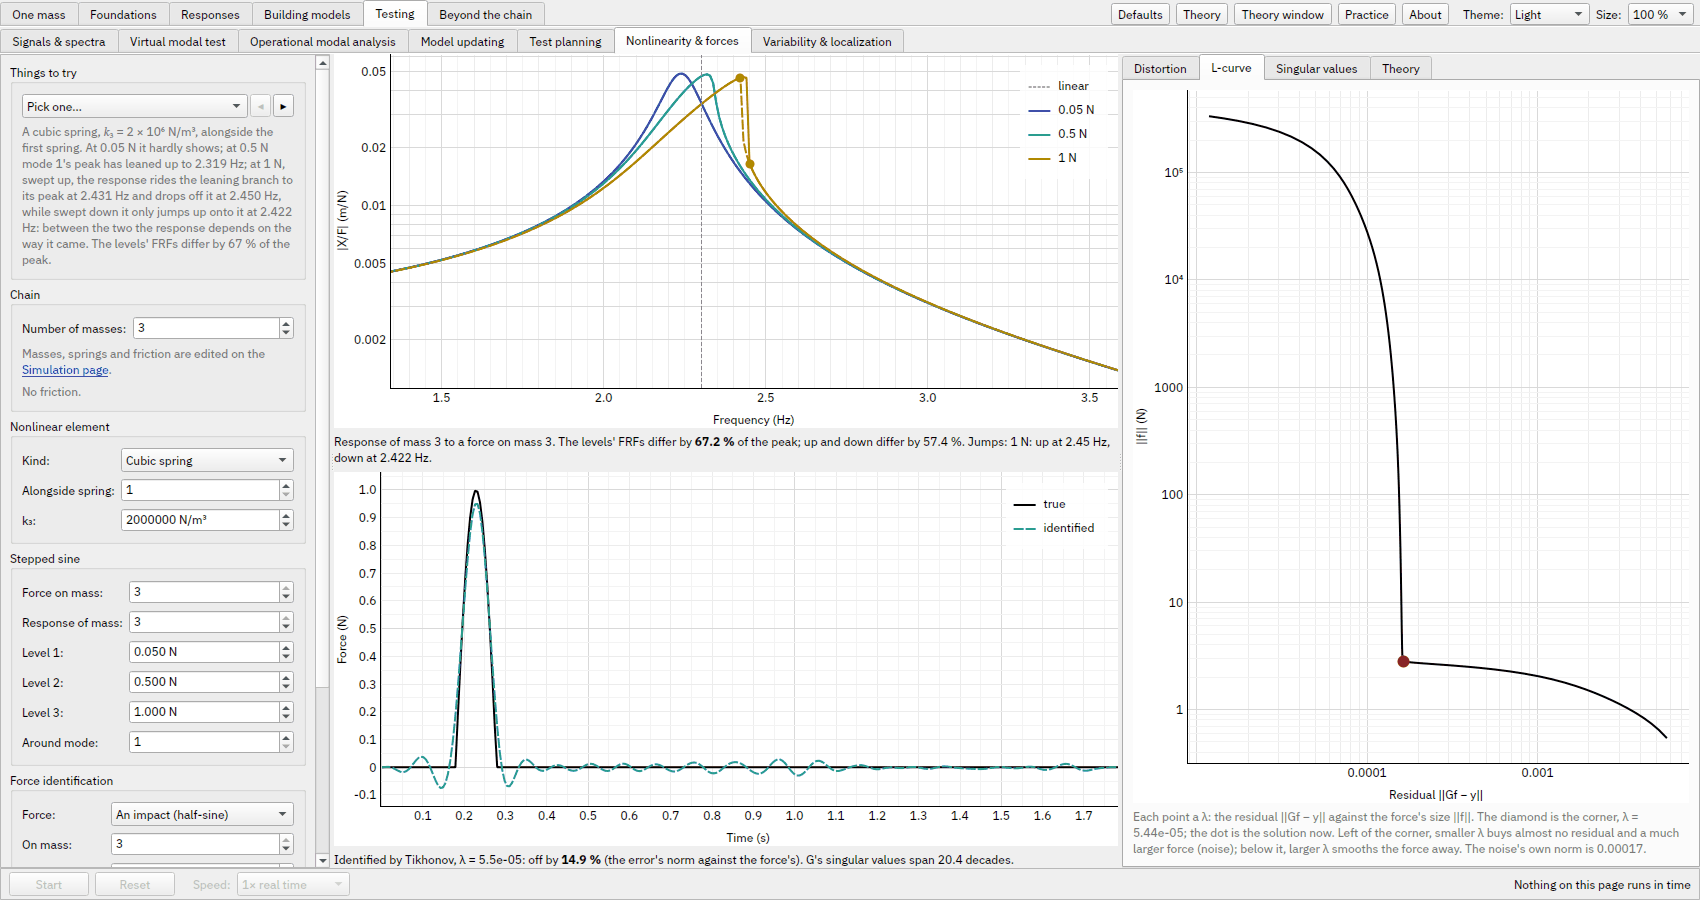
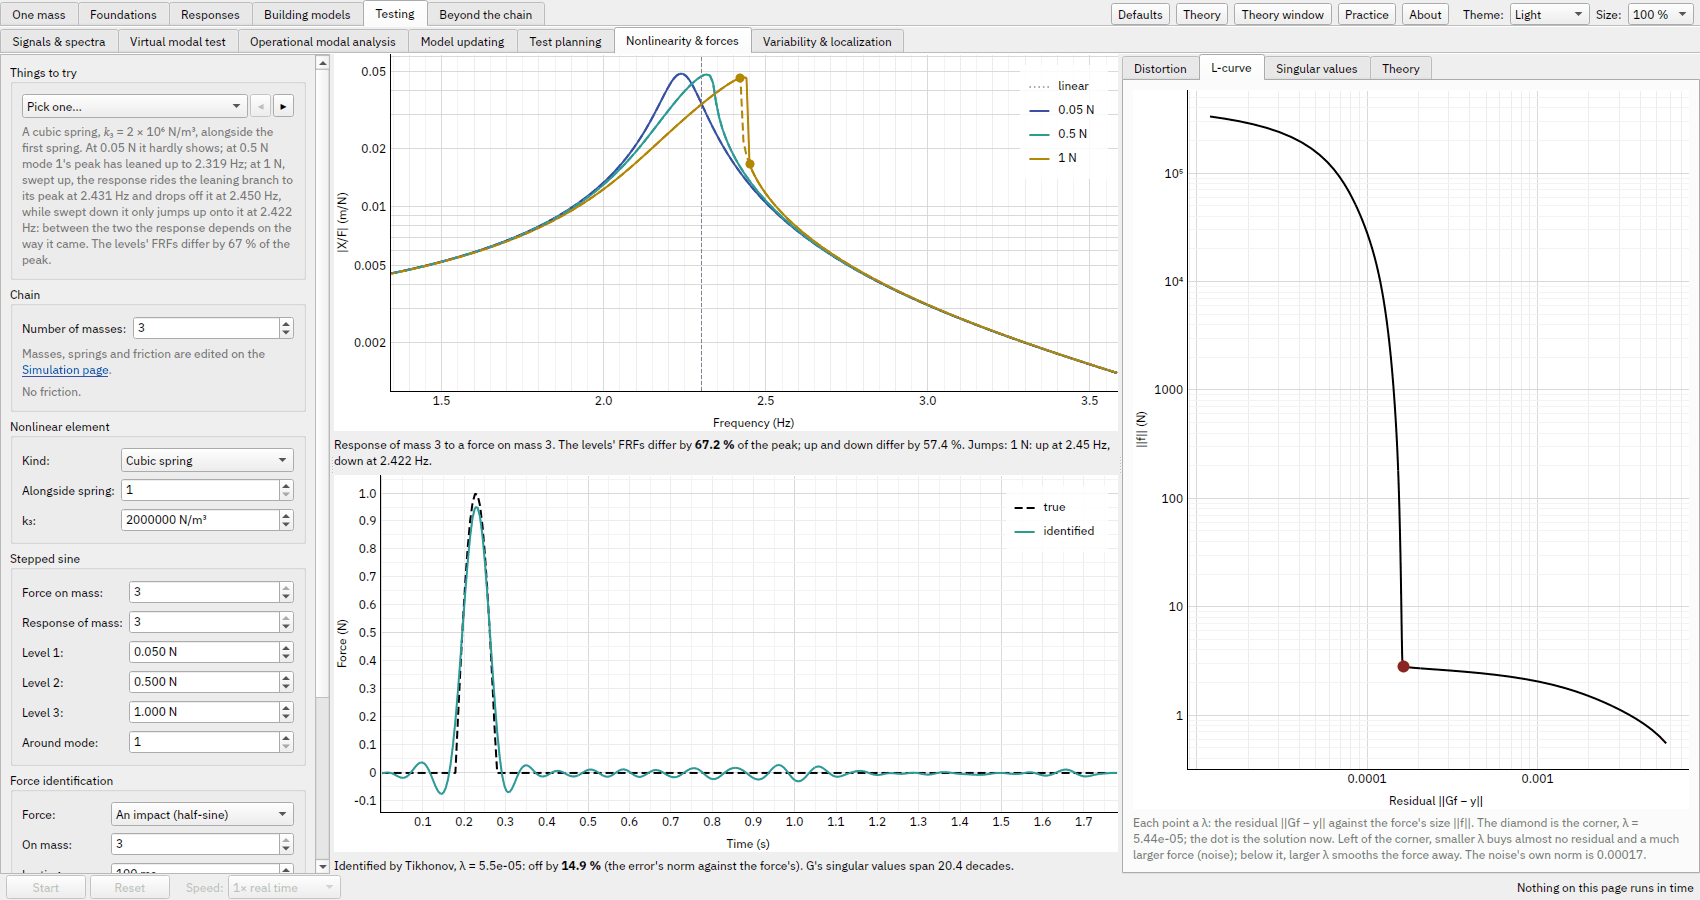
Nonlinearity: the identified force drawn solid, without antialiasing when blown up (#316 D2)
After a trial, Measured and Regularized by took 110-330 ms, much of it painting the identified force: a
noisy, blown-up estimate zigzagging far past the plot, dashed and antialiased (400 ms a paint at worst).
It's solid now (the true force dashed) and drawn without antialiasing while it runs past the plot.
Regularized by: ~110 -> 14 ms; Measured: up to 200 -> 35-116 ms, most of it force_id.set_up. The
Nonlinearity and Numerical integration screenshots redrawn.

diff --git a/src/vib_tutorial/gui/nonlinear_forces.py b/src/vib_tutorial/gui/nonlinear_forces.py
@@ -391,7 +391,7 @@ FRF_TIP = (
     "<p>The FRF |X/F| at each level: swept up (solid) and down (dashed). Dotted: the linear chain's. A linear "
     "chain's levels all lie on it; the dots mark where a sweep jumped.</p>"
 )
-FORCE_TIP = "<p>The true force (solid) and the one identified from the noisy measurement (dashed).</p>"
+FORCE_TIP = "<p>The true force (dashed) and the one identified from the noisy measurement (solid).</p>"
 
 NOTES_HTML = load_notes("nonlinear_forces", figures=nonlinear_figures.FIGURES, trials=trials_html(TRIALS))
 
@@ -843,8 +843,10 @@ class NonlinearForcesPage(QtWidgets.QWidget):
             self.down_items[k].setPen(pg.mkPen(c, width=2, style=dash))
             mark(self.jump_items[k], c, filled=True)
         self.dist_line.setPen(pg.mkPen(colors.grey, width=1, style=dash))
-        self.truth_item.setPen(pg.mkPen(colors.strong, width=2))
-        self.estimate_item.setPen(pg.mkPen(colors.fit, width=2, style=dash))
+        # The true force dashed and the identified one solid: the identified one zigzags with the noise, and a dashed
+        # zigzag is slow to stroke (20 ms a paint even without antialiasing; solid, 2 ms: see `_draw_force`)
+        self.truth_item.setPen(pg.mkPen(colors.strong, width=2, style=dash))
+        self.estimate_item.setPen(pg.mkPen(colors.fit, width=2))
         self.wave_item.setPen(pg.mkPen(colors.strong, width=2))
         self.sine_item.setPen(pg.mkPen(colors.grey, width=1.5, style=dash))
         self.harm_bars.setOpts(brush=pg.mkBrush(colors.mode[0]), pen=None)
@@ -921,9 +923,11 @@ class NonlinearForcesPage(QtWidgets.QWidget):
             self.estimate_item.setData([], [])
             self.force_readout.setText("No sensors: tick at least one mass.")
             return
-        self.estimate_item.setData(t, self.estimate)
         top = float(np.abs(self.truth).max())
         big = float(np.abs(self.estimate).max())
+        # Blown up (the plain inverse's noise), it zigzags far past the plot: antialiased, Qt took 70 ms to stroke it
+        # (400 ms dashed), without it 2 ms. Its look then hardly matters.
+        self.estimate_item.setData(t, self.estimate, antialias=big <= 3 * top)
         self.force_plot.setXRange(0, t[-1], padding=0)
         if big > 3 * top:
             self.force_plot.setYRange(-1.5 * top, 1.5 * top, padding=0)
